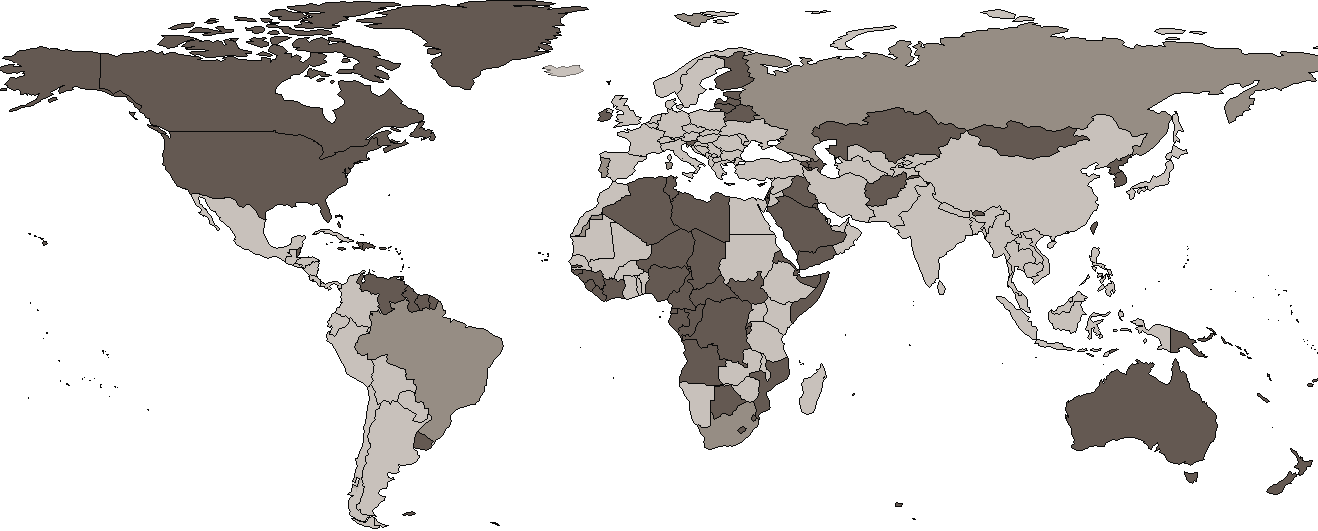
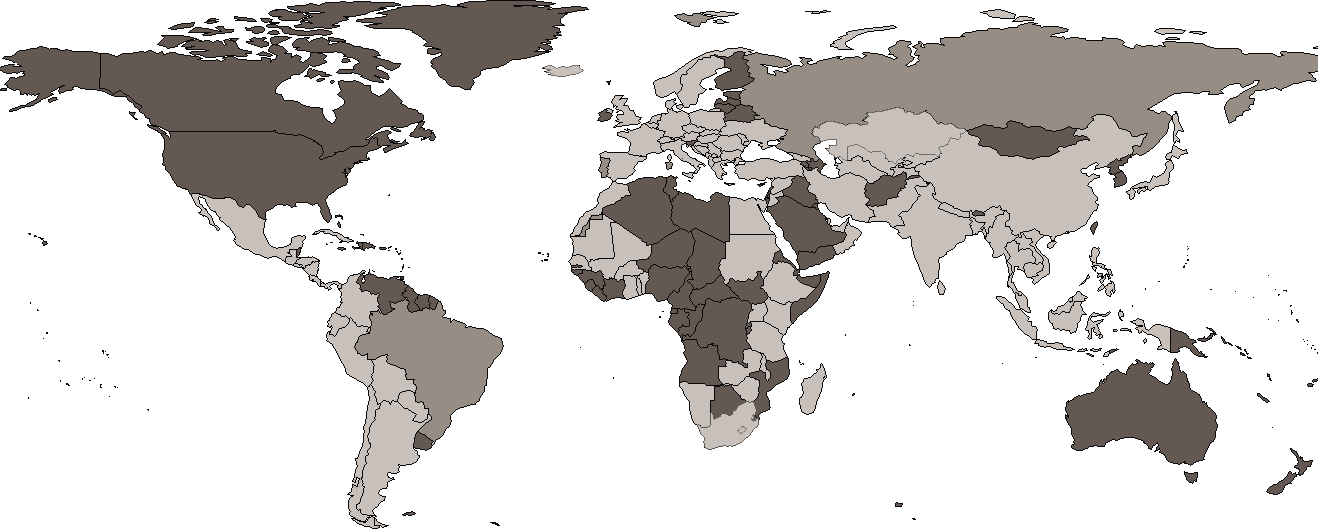
with kazak south africa

Changed region(s): [[0.591, 0.1808, 0.7466, 0.3013], [0.5288, 0.7533, 0.591, 0.8437]]

diff --git a/Countries.html b/Countries.html
@@ -72,7 +72,7 @@
 						<div class="panel-title">
 							<h4 class="panel-title">
 								<a data-toggle="collapse" data-parent="#accordion" href="#SouthernAfrica">
-								<i class="fa fa-caret-right"></i>  Southern Africa <small>(5)</small>
+								<i class="fa fa-caret-right"></i>  Southern Africa <small>(6)</small>
 								</a>
 							</h4>
 						</div>
@@ -81,11 +81,12 @@
 								<p>
 								</p>
 								<ul class="fa-ul">
-									<li data-target="#myCarousel" data-slide-to="60" class="fa fa-caret-right"><a href="#"> South Africa</a>: 5 days (10)</li><br/>
+									<li data-target="#myCarousel" data-slide-to="60" class="fa fa-caret-right"><a href="#"> South Africa</a>: 5+14 days (10/16)</li><br/>
 									<li data-target="#myCarousel" data-slide-to="61" class="fa fa-caret-right"><a href="#"> Namibia</a>: 14 days (10)</li><br/>
 									<li data-target="#myCarousel" data-slide-to="62" class="fa fa-caret-right"><a href="#"> Zimbabwe</a>: 7 days (10)</li><br/>
 									<li data-target="#myCarousel" data-slide-to="63" class="fa fa-caret-right"><a href="#"> Zambia</a>: 14 days (10)</li><br/>
-									<li data-target="#myCarousel" data-slide-to="64" class="fa fa-caret-right"><a href="#"> Malawi</a>: 5 days (11)</li><br/>
+									<li data-target="#myCarousel" data-slide-to="101" class="fa fa-caret-right"><a href="#"> Lesotho</a>: 4 days (16)</li><br/>
+									<li data-target="#myCarousel" data-slide-to="102" class="fa fa-caret-right"><a href="#"> Swaziland</a>: 4 days (16)</li><br/>
 								</ul>
 							</div>
 						</div>
@@ -275,7 +276,7 @@
 						<div class="panel-title">
 							<h4 class="panel-title">
 								<a data-toggle="collapse" data-parent="#accordion" href="#CentralAsia">
-								<i class="fa fa-caret-right"></i>  Central & East Asia <small>(7)</small>
+								<i class="fa fa-caret-right"></i>  Central & East Asia <small>(8)</small>
 								</a>
 							</h4>
 						</div>
@@ -289,6 +290,7 @@
 									<li data-target="#myCarousel" data-slide-to="76" class="fa fa-caret-right"><a href="#"> Uzbekistan</a>: 11 days (12)</li><br/>
 									<li data-target="#myCarousel" data-slide-to="78" class="fa fa-caret-right"><a href="#"> Kyrgyzstan</a>: 14 days (12)</li><br/>
 									<li data-target="#myCarousel" data-slide-to="77" class="fa fa-caret-right"><a href="#"> Tajikistan</a>: 14 days (12)</li><br/>
+									<li data-target="#myCarousel" data-slide-to="100" class="fa fa-caret-right"><a href="#"> Kazakhstan</a>: 8 days (16)</li><br/>								
 									<li data-target="#myCarousel" data-slide-to="83" class="fa fa-caret-right"><a href="#"> China</a>: 33 days (14)</li><br/>
 									<li data-target="#myCarousel" data-slide-to="79" class="fa fa-caret-right"><a href="#"> Japan</a>: 10 days (13)</li><br/>								
 								</ul>
@@ -477,6 +479,7 @@
 							</div>
 							<div class="col-md-1"></div>
 						</div>
+
 
 
 
@@ -1789,12 +1792,12 @@
 									<small>
 									<span style="vertical-align:middle">
 										<img style="width:120px;vertical-align:top" src="flags/South_Africa.png" align="right" hspace="10">
-										The African backpackers country, whatever your backpacking heart desires. I was happy to leave quickly (NOV, 2010; 5 days; budget=20&euro;/day) because in the end it is all just a bit too smooth. I did not visit the main capital Johannesburg.<br clear="left"/>
+										The African backpackers country, whatever your backpacking heart desires. I was happy to leave quickly the first time (NOV, 2010; 5 days; budget=20&euro;/day) because in the end it is all just a bit too smooth and quite boring. The second time it was much better (OCT, 2016; 14 days; budget=30&euro;/day), covering the eastern part with mountains and wildlife instead of just boring cities.<br clear="left"/>
 									</span>
 									</small>
 								</div>
 								</p>
-								<a href="#" onclick="window.open('spots/60_South_Africa.html','show','top=200,left=250,width=450,height=600,toolbar=no,location=no,directories=no,status=yes,menubar=no,scrollbars=yes,copyhistory=no,resizable=yes').focus()">Places</a><br/><small>Cape Town - Stellenbosch</small>
+								<a href="#" onclick="window.open('spots/60_South_Africa.html','show','top=200,left=250,width=450,height=600,toolbar=no,location=no,directories=no,status=yes,menubar=no,scrollbars=yes,copyhistory=no,resizable=yes').focus()">Places</a><br/><small>Cape Town - Stellenbosch - Clarens - Golden Gate NP - Royal Natal NP - Sentinel - Matatiele - Bushmens Nek - Underberg - Injisuthi - Zinkwazi Lagoon - St. Lucia Wetlands - Hluhluwe Imfolozi NP - Barberton - Kruger NP - Panoramic Route - Sabie - Dullstroom - Kempton Park - Soweto - Pretoria - Johannesburg</small>
 							</div>
 						</div>
 						<div class="col-md-1"></div>
@@ -2653,6 +2656,72 @@
 								</div>
 								</p>
 								<a href="#" onclick="window.open('spots/99_Liechtenstein.html','show','top=200,left=250,width=450,height=600,toolbar=no,location=no,directories=no,status=yes,menubar=no,scrollbars=yes,copyhistory=no,resizable=yes').focus()">Places</a><br/><small>Vaduz - Malbun</small>
+							</div>
+						</div>
+						<div class="col-md-1"></div>
+					</div>
+					<!-- end -->
+					<!-- 100 Kazakhstan -->
+					<div class="item">
+						<div class="col-md-1"></div>
+						<div class="container col-md-10" align="justify">
+							<h3>Kazakhstan</h3>
+							<div class="well">
+								<p>
+								<div>
+									<small>
+									<span style="vertical-align:middle">
+										<img style="width:120px;vertical-align:top" src="flags/Kazakhstan.png" align="right" hspace="10">
+										It is not on many tourist itinerary, and that is quite normal. But still, you may enjoy some of the mountain scenery and the untouristy atmosphere (SEP, 2016, 8 days)<br clear="left"/>
+									</span>
+									</small>
+								</div>
+								</p>
+								<a href="#" onclick="window.open('spots/100_Kazakhstan.html','show','top=200,left=250,width=450,height=600,toolbar=no,location=no,directories=no,status=yes,menubar=no,scrollbars=yes,copyhistory=no,resizable=yes').focus()">Places</a><br/><small>Almaty - Ile Alatau NP - Shymkent - Turkestan - Karagandy - Karkaraly NP - Astana</small>
+							</div>
+						</div>
+						<div class="col-md-1"></div>
+					</div>
+					<!-- end -->
+					<!-- 101 Lesotho -->
+					<div class="item">
+						<div class="col-md-1"></div>
+						<div class="container col-md-10" align="justify">
+							<h3>Lesotho</h3>
+							<div class="well">
+								<p>
+								<div>
+									<small>
+									<span style="vertical-align:middle">
+										<img style="width:120px;vertical-align:top" src="flags/Lesotho.png" align="right" hspace="10">
+										The kingdkom in the mountains where you surpisingely never seem to be alone, if it is a road trip you want you are in the right place (OCT, 2016, 4 days).<br clear="left"/>
+									</span>
+									</small>
+								</div>
+								</p>
+								<a href="#" onclick="window.open('spots/101_Lesotho.html','show','top=200,left=250,width=450,height=600,toolbar=no,location=no,directories=no,status=yes,menubar=no,scrollbars=yes,copyhistory=no,resizable=yes').focus()">Places</a><br/><small>Butha Buthe - Katse Dam - Maseru - Malealea - Qatchas Nek</small>
+							</div>
+						</div>
+						<div class="col-md-1"></div>
+					</div>
+					<!-- end -->
+					<!-- 102 Swaziland -->
+					<div class="item">
+						<div class="col-md-1"></div>
+						<div class="container col-md-10" align="justify">
+							<h3>Swaziland</h3>
+							<div class="well">
+								<p>
+								<div>
+									<small>
+									<span style="vertical-align:middle">
+										<img style="width:120px;vertical-align:top" src="flags/Swaziland.png" align="right" hspace="10">
+										When If you are in the neighbourhood, then it may be fun to visit this small country just to see some little differences, little cities, little towns (OCT, 2016, 4 days).<br clear="left"/>
+									</span>
+									</small>
+								</div>
+								</p>
+								<a href="#" onclick="window.open('spots/102_Swaziland.html','show','top=200,left=250,width=450,height=600,toolbar=no,location=no,directories=no,status=yes,menubar=no,scrollbars=yes,copyhistory=no,resizable=yes').focus()">Places</a><br/><small>Nhlangano - Milwane Wildlife Sanctuary - Mbabane - Siteki - Hlane NP - Malalotja</small>
 							</div>
 						</div>
 						<div class="col-md-1"></div>

diff --git a/spots/60_South_Africa.html b/spots/60_South_Africa.html
@@ -26,6 +26,66 @@
 	<P><B>Stellenbosch <small>(2010-11)</small>:</P></B>
 	<P>A student town, nothing much here unless you are still into the student life... a few nice bars might keep you here for a few days.</P>
 	
+	<P><B>Clarens <small>(2016-10)</small>:</P></B>
+	<P>A small and relaxed white city may be the perfect place to get started, at the verge of the mountains.</P>
+	
+	<P><B>Golden Gate NP <small>(2016-10)</small>:</P></B>
+	<P>Beautiful scenery to drive through. </P>
+	
+	<P><B>Royal Natal NP <small>(2016-10)</small>:</P></B>
+	<P>Beautiful scenery to hike, the gorge or crack hike for example. </P>
+	
+	<P><B>Sentinel <small>(2016-10)</small>:</P></B>
+	<P>Get on top of the Tugela Falls, a very nice hike up with beautiful scenery as reward.</P>
+	
+	<P><B>Matatiele <small>(2016-10)</small>:</P></B>
+	<P>Just passing through, getting new shoes, this looked a quite alright place to hang out for a day.</P>
+	
+	<P><B>Bushmens Nek <small>(2016-10)</small>:</P></B>
+	<P>Hiking up to a cave for the night, with marvellous scenery around.</P>
+	
+	<P><B>Underberg <small>(2016-10)</small>:</P></B>
+	<P>One of the small places they refer to as city, at least there are shops to fuel up before the hike.</P>
+	
+	<P><B>Injisuthi <small>(2016-10)</small>:</P></B>
+	<P>Bummer for the rain and the fog, the van Heinighen pass is said to provide superb views. </P>
+	
+	<P><B>Zinkwazi Lagoon <small>(2016-10)</small>:</P></B>
+	<P>On route, this was a beautiful stopover to put are tent.</P>
+	
+	<P><B>St. Lucia Wetlands <small>(2016-10)</small>:</P></B>
+	<P>Maybe you should do the boat tour to see the hippo's, otherwise it is just a nice quite nature reserve to drive through.</P>
+	
+	<P><B>Hluhluwe Imfolozi NP <small>(2016-10)</small>:</P></B>
+	<P>This national park is a treat, with many sightings and interesting scenery. It is perfect for a very full day of safari. Sleeping we did in Hluhluwe village, the wildebees ecolodge.</P>
+	
+	<P><B>Barberton <small>(2016-10)</small>:</P></B>
+	<P>Quiet, safe and pleasant little city, and good for a break. Getting here from Swaziland was more than half the fun.</P>
+	
+	<P><B>Kruger NP <small>(2016-10)</small>:</P></B>
+	<P>No wonder it comes so highly recommended, so easy to do your own game drive, with lots to see and cheap too.</P>
+	
+	<P><B>Panoramic Route <small>(2016-10)</small>:</P></B>
+	<P>The view of the Three Rondavels is very nice, and getting there from the north side is equally rewarding because of the colored barren mountains. </P>
+	
+	<P><B>Sabie <small>(2016-10)</small>:</P></B>
+	<P>To have a break on the Panoramic route, you might end up in this small city. </P>
+	
+	<P><B>Dullstroom <small>(2016-10)</small>:</P></B>
+	<P>While recommended by guides, this place looks like a tourist stopover in the middle of nothing. </P>
+	
+	<P><B>Kempton Park <small>(2016-10)</small>:</P></B>
+	<P>With the safety issues in mind, getting a place in a quiet neighbourhood near the airport seems a good option. There is a bar and some big shops.</P>
+	
+	<P><B>Soweto <small>(2016-10)</small>:</P></B>
+	<P>Orlando West, the tourist spot in Soweto, is quite relaxed these days and a more safe option than some areas in Joburg center.</P>
+	
+	<P><B>Pretoria <small>(2016-10)</small>:</P></B>
+	<P>The capital, ok to walk through but nothing more. Lucky for us that there was an open air concert. Cities are not a highlight of South Africa.</P>
+	
+	<P><B>Johannesburg <small>(2016-10)</small>:</P></B>
+	<P>The most interesting city in South Africa, showing the big differences between Park, Sandton, Alexandra, ... from rough townships to upmarket shopping centers. A pitty it is such a dodgy place.</P>
+	
 	<HR>
 	</div>
 

diff --git a/spots/102_Swaziland.html b/spots/102_Swaziland.html
@@ -1,0 +1,50 @@
+<!DOCTYPE html>
+<html lang="en">
+
+<head>
+<link type "text/css" href="../cyborg/bootstrap.css" rel="stylesheet">
+<link type "text/css" href="../cyborg/modify.css" rel="stylesheet">
+<link type "text/css" href="../cyborg/font-awesome.min.css" rel="stylesheet">
+<link rel="shortcut icon" href="../img/$favicon.ico" type="image/x-icon" />
+
+<title>Swaziland</title>
+
+</head>
+
+<body>
+
+<div class="container">
+
+	<div class="col-md-3">
+	<BR><P><B>Swaziland</P></B>
+
+	<HR>
+
+	<P><B>Nhlangano <small>(2016-10)</small>:</P></B>
+	<P>The road up from this tiny city should be scenic, bummer it was raining cats and dogs.</P>
+	
+	<P><B>Milwane Wildlife Sanctuary <small>(2016-10)</small>:</P></B>
+	<P>This popular stopover provides cheap accomodation in the middle of a wildlife reserve. The hippo trail is a nice hike. Nearby Ezulwini, despite being recommended, seems to be a bit too boring.  </P>
+	
+	<P><B>Mbabane <small>(2016-10)</small>:</P></B>
+	<P>A capital, not that there is much out there. It is good enough to have a walk through or to shop. To sleep there are probably better options.</P>
+	
+	<P><B>Siteki <small>(2016-10)</small>:</P></B>
+	<P>Cities in Swaziland you could hardly call cities, just like Siteki they look like a few malls with some people living near it. </P>
+	
+	<P><B>Hlane NP <small>(2016-10)</small>:</P></B>
+	<P>If you want to come up close to lions, this zoo-like national park may be for you, otherwise, give it a miss.</P>
+	
+	<P><B>Malalotja <small>(2016-10)</small>:</P></B>
+	<P>Maybe you see some animals on this hike, but you surely will enjoy the hilly hike, and maybe the outdoor camping in the canyon. </P>
+	
+	<HR>
+	</div>
+
+</div>
+
+<br><br>
+
+</body>
+</html>
+

diff --git a/spots/100_Kazakhstan.html b/spots/100_Kazakhstan.html
@@ -1,0 +1,53 @@
+<!DOCTYPE html>
+<html lang="en">
+
+<head>
+<link type "text/css" href="../cyborg/bootstrap.css" rel="stylesheet">
+<link type "text/css" href="../cyborg/modify.css" rel="stylesheet">
+<link type "text/css" href="../cyborg/font-awesome.min.css" rel="stylesheet">
+<link rel="shortcut icon" href="../img/$favicon.ico" type="image/x-icon" />
+
+<title>Kazakhstan</title>
+
+</head>
+
+<body>
+
+<div class="container">
+
+	<div class="col-md-3">
+	<BR><P><B>Kazakhstan</P></B>
+
+	<HR>
+
+	<P><B>Almaty <small>(2016-09)</small>:</P></B>
+	<P>The number one city, cultural capital, provides easy access to bars and mountains.</P>
+	
+	<P><B>Ile Alatau NP <small>(2016-09)</small>:</P></B>
+	<P>The mountains are ok for a hike, but Kyrgyzstan and maybe the north east of Kazakhstan offer better hikes.</P>
+	
+	<P><B>Shymkent <small>(2016-09)</small>:</P></B>
+	<P>Much less russian style, this  Uzbek city is kinda nice for a stroll. </P>
+	
+	<P><B>Turkestan <small>(2016-09)</small>:</P></B>
+	<P>The one world class historical site, although not rivalling the ones from Uzbekistan, is the only reason to come here. </P>
+	
+	<P><B>Karagandy <small>(2016-09)</small>:</P></B>
+	<P>No reason to come here, but you maybe get stuck here. It is the hub to go east, north and south.</P>
+	
+	<P><B>Karkaraly NP <small>(2016-09)</small>:</P></B>
+	<P>OK hiking here in Karkaraly national park, although the forests may seem a bit too normal for western europeans. </P>
+	
+	<P><B>Astana <small>(2016-09)</small>:</P></B>
+	<P>The new capital, and the architectural showpiece, at least in the center part.</P>
+	
+	<HR>
+	</div>
+
+</div>
+
+<br><br>
+
+</body>
+</html>
+

diff --git a/spots/101_Lesotho.html b/spots/101_Lesotho.html
@@ -1,0 +1,47 @@
+<!DOCTYPE html>
+<html lang="en">
+
+<head>
+<link type "text/css" href="../cyborg/bootstrap.css" rel="stylesheet">
+<link type "text/css" href="../cyborg/modify.css" rel="stylesheet">
+<link type "text/css" href="../cyborg/font-awesome.min.css" rel="stylesheet">
+<link rel="shortcut icon" href="../img/$favicon.ico" type="image/x-icon" />
+
+<title>Lesotho</title>
+
+</head>
+
+<body>
+
+<div class="container">
+
+	<div class="col-md-3">
+	<BR><P><B>Lesotho</P></B>
+
+	<HR>
+
+	<P><B>Butha Buthe <small>(2016-10)</small>:</P></B>
+	<P>Passing through, after the border crossing. Note the the northern road is your only option with a 2wd to get to the Sani-Pass.</P>
+	
+	<P><B>Katse Dam <small>(2016-10)</small>:</P></B>
+	<P>An allright place to visit, but getting there is by far the most important part of the trip.</P>
+	
+	<P><B>Maseru <small>(2016-10)</small>:</P></B>
+	<P>It is a capital, but there is no real reason to visit unless you like the more dodgy places. Sleeping we did in Thaba Bosui.</P>
+	
+	<P><B>Malealea <small>(2016-10)</small>:</P></B>
+	<P>There is beautiful scenery around for hiking. The community based tourism, as they promote themselves, is maybe more about advertising yourself.</P>
+	
+	<P><B>Qatchas Nek <small>(2016-10)</small>:</P></B>
+	<P>Like most places in Lesotho, getting there is most of the fun.</P>
+	
+	<HR>
+	</div>
+
+</div>
+
+<br><br>
+
+</body>
+</html>
+

diff --git a/index.html b/index.html
@@ -4,7 +4,7 @@
 <head>
 <meta http-equiv="refresh" content="10; URL=Tripn.html">
     <meta charset="utf-8">
-    <meta http-equiv="X-UA-Compatible" content="IE=edge">
+    <meta http-equiv="X-UA-Compatible" content="IE=edge,chrome=1">
 	<meta name="viewport" content="width=device-width, initial-scale=1">
 <link type "text/css" href="cyborg/bootstrap.css" rel="stylesheet">
 <link type "text/css" href="cyborg/modify.css" rel="stylesheet">

diff --git a/cyborg/modify.css b/cyborg/modify.css
@@ -101,3 +101,6 @@ img, embed, object, video {
 .well {
   padding: 29px;
 }
+.media-body {
+  overflow: hidden;
+}
